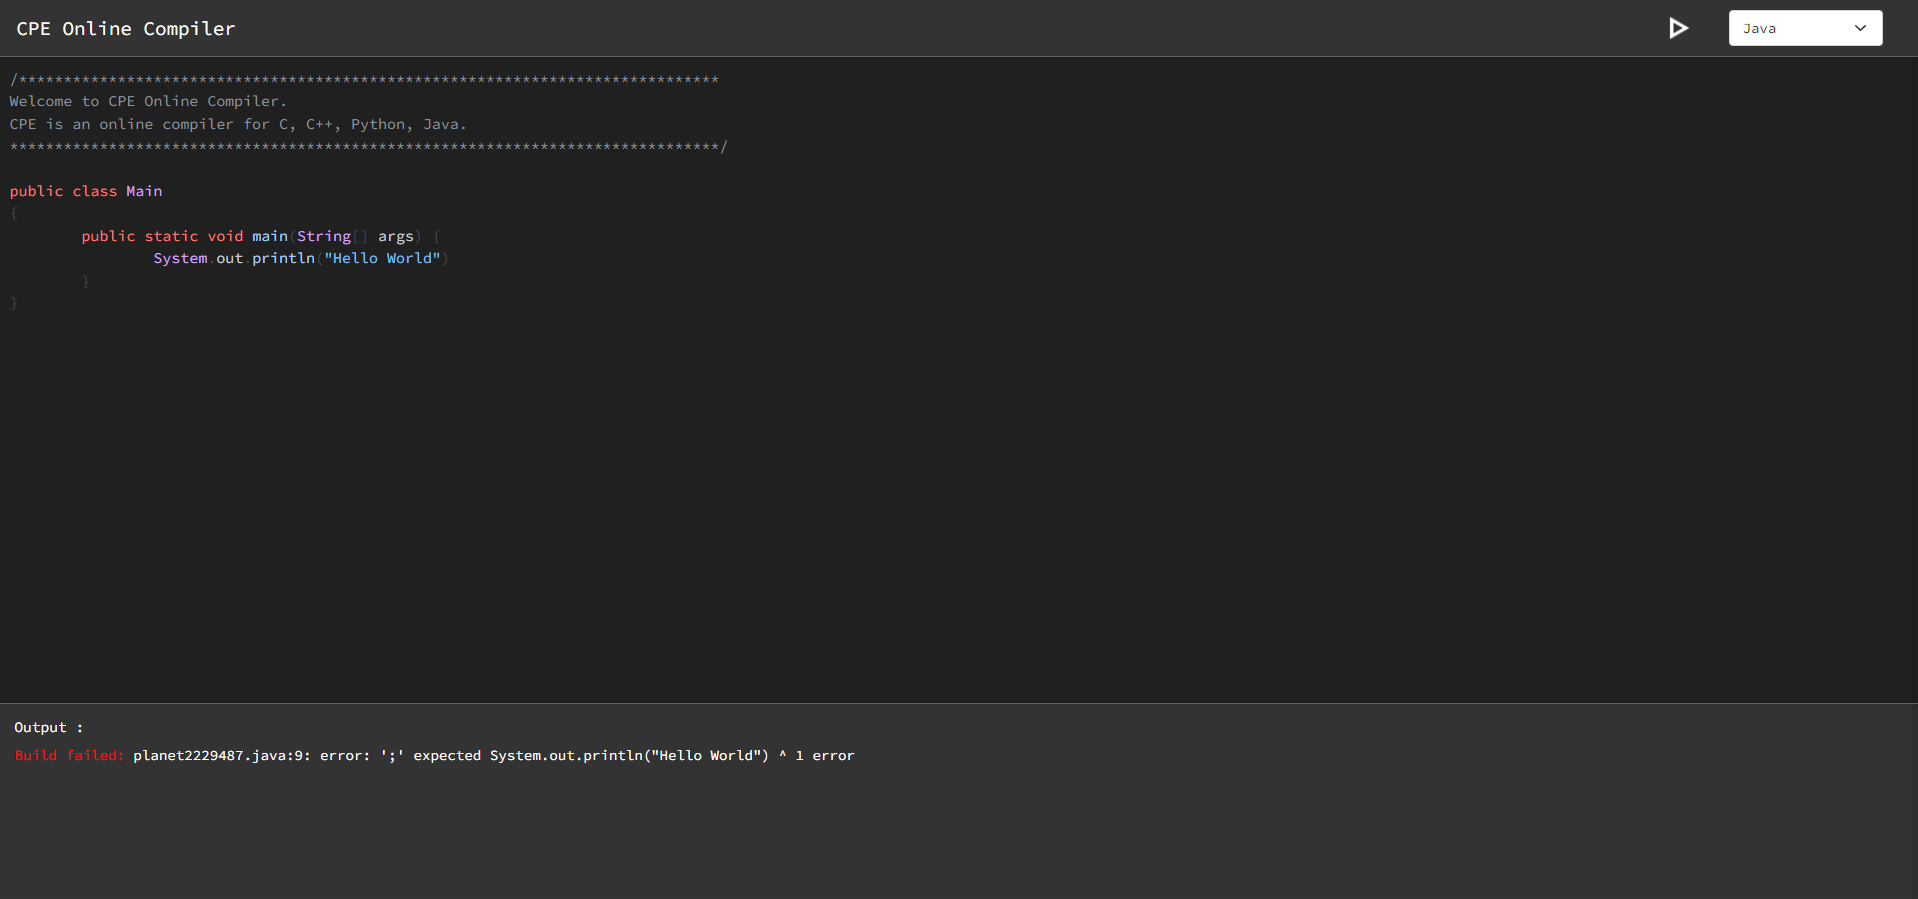
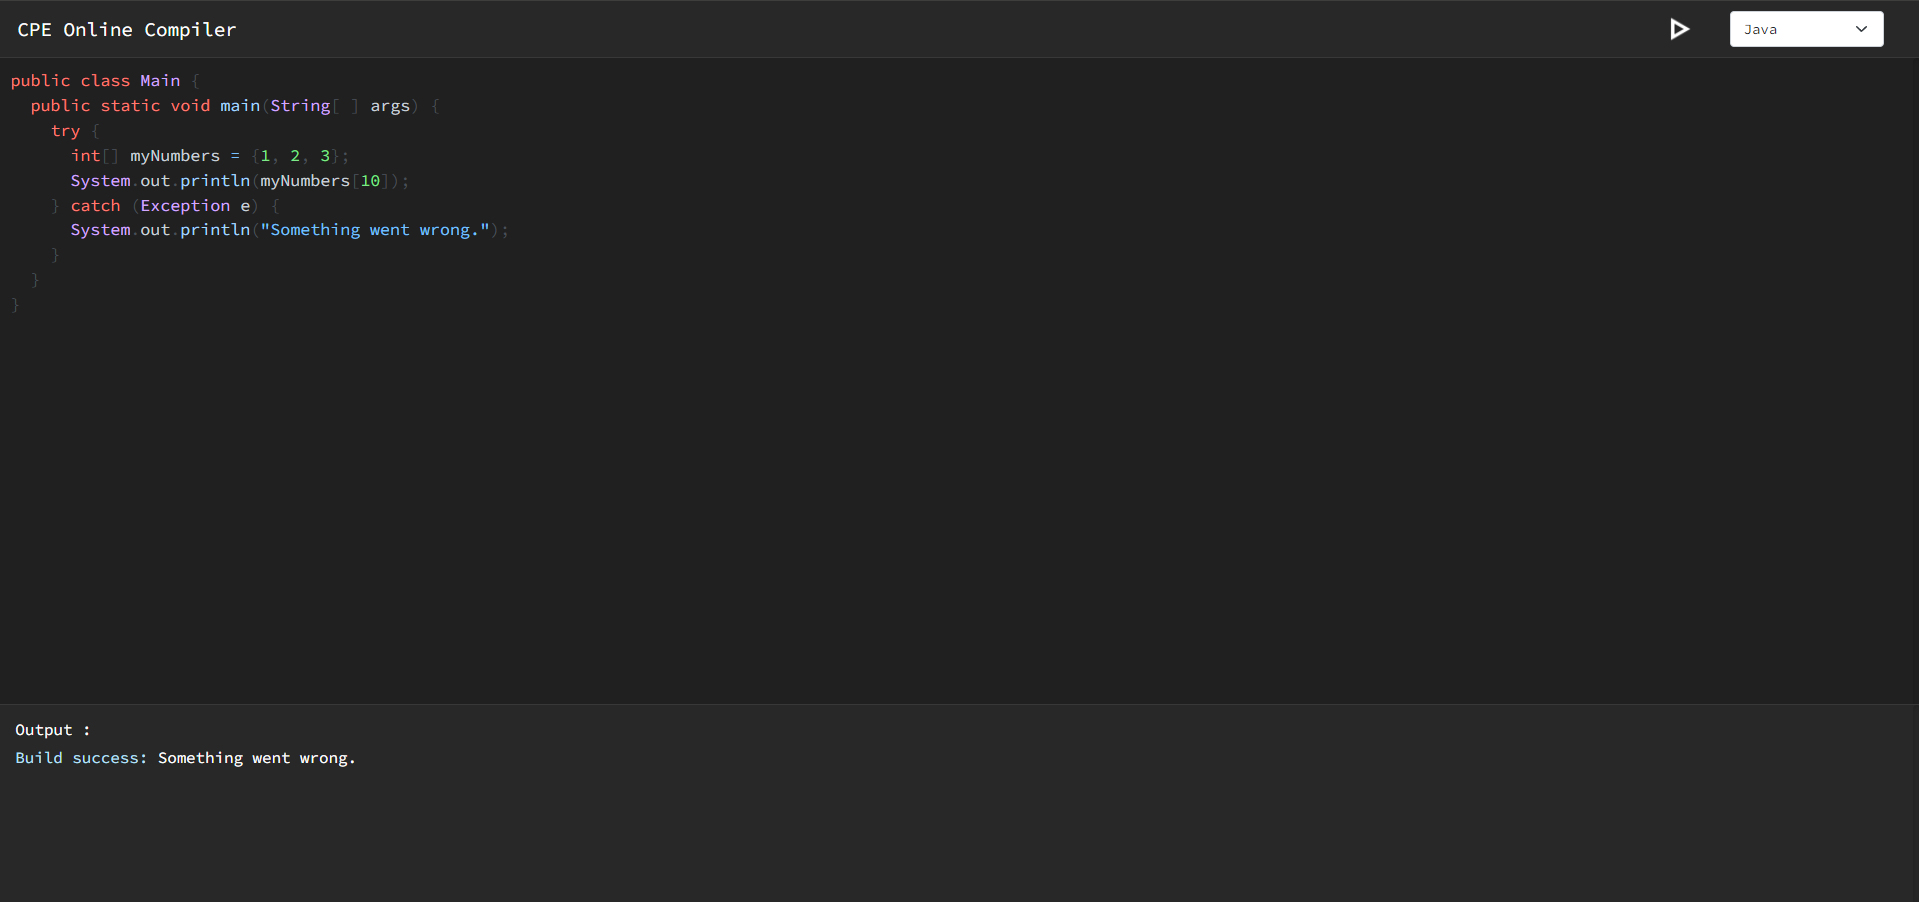
syntax highlighting fix

diff --git a/client/src/Output.js b/client/src/Output.js
@@ -2,8 +2,8 @@ import React from 'react'
 
 export const Output = (props) => {
     return (
-        <div className="output" style={{ display: 'flex', flexDirection: 'column', textAlign: 'left', paddingLeft: '0.8vw', backgroundColor: '#333333', marginTop: '-8px', paddingTop: '40px', overflowY: 'scroll',position:'relative' ,height:'22.5vh',fontSize:'0.85em',borderTop:'1px solid #616161'}}>
-            <h6 style={{ color: 'white',zIndex:'99',position:'absolute',top:'15px',fontSize:'14px'}}>Output :</h6>
+        <div className="output" style={{ display: 'flex', flexDirection: 'column', textAlign: 'left', paddingLeft: '0.8vw', backgroundColor: 'rgb(40,40,40)', marginTop: '-8px', paddingTop: '40px', overflowY: 'scroll',position:'relative' ,height:'22.5vh',fontSize:'0.95em',borderTop:'0.1px solid rgb(56 56 56)'}}>
+            <h6 style={{ color: 'white',zIndex:'99',position:'absolute',top:'15px',fontSize:'15.25px'}}>Output :</h6>
             <div className="output" style={{ color: 'white' }}>
                 {(props.op[1]) ?
                     <span style={{ color: '#BBE1FA' }}> Build success: </span> : <></>}

diff --git a/client/src/Navbar.js b/client/src/Navbar.js
@@ -5,7 +5,7 @@ export const Navbar = (props) => {
         props.selectlang(e.target.value)
     }
     return (
-        <nav className="navbar navbar-light" style={{ backgroundColor: '#333333' ,borderBottom:'1px solid #616161'}}>
+        <nav className="navbar navbar-light" style={{ backgroundColor: 'rgb(40,40,40)' ,borderBottom:'1px solid rgb(56 56 56)'}}>
             <div className="container-fluid">
                 <a href="/" className="navbar-brand" style={{ color: 'white' ,fontSize:'18.5px',paddingLeft:'0.25vw'}}>CPE Online Compiler</a>
                 <div style={{display:'flex',flexDirection:'row'}}>

diff --git a/client/src/TextEditor.jsx b/client/src/TextEditor.jsx
@@ -13,7 +13,7 @@ export const TextEditor = (props) => {
                 value={props.c}
                 language={props.lang}
                 onChange={(e) => handleCode(e)}
-                style={{ backgroundColor: '#202020', width: '100%', fontSize: '0.9em', }}
+                style={{ backgroundColor: '#202020', width: '100%', fontSize: '1em'}}
             />
         </div>
 

diff --git a/backend/codes/badly2236223.java b/backend/codes/badly2236223.java
@@ -1,0 +1,11 @@
+/******************************************************************************
+Welcome to CPE Online Compiler.
+CPE is an online compiler for C, C++, Python, Java.
+*******************************************************************************/
+
+public class badly2236223
+{
+	public static void main(String[] args) {
+		System.out.println("Hello World")
+	}
+}

diff --git a/backend/codes/symbol2219496.cpp b/backend/codes/symbol2219496.cpp
@@ -1,0 +1,15 @@
+/******************************************************************************
+Welcome to CPE Online Compiler.
+CPE is an online compiler for C, C++, Python, Java.
+*******************************************************************************/
+
+#include <iostream>
+
+using namespace std;
+
+int main()
+{
+    cout<<"Hello World";
+
+    return 0;
+}

diff --git a/backend/codes/what2227961.cpp b/backend/codes/what2227961.cpp
@@ -1,0 +1,15 @@
+/******************************************************************************
+Welcome to CPE Online Compiler.
+CPE is an online compiler for C, C++, Python, Java.
+*******************************************************************************/
+
+#include <iostream>
+
+using namespace std;
+
+int main()
+{
+    cout<<"Hello World";
+
+    return 0;
+}

diff --git a/backend/codes/cover2254262.c b/backend/codes/cover2254262.c
@@ -1,0 +1,13 @@
+/******************************************************************************
+Welcome to CPE Online Compiler.
+CPE is an online compiler for C, C++, Python, Java.
+*******************************************************************************/
+
+#include <stdio.h>
+
+int main()
+{
+    printf("Hello World");
+    printf("%d",5*2);
+    return 0;
+}

diff --git a/backend/codes/saw223466.c b/backend/codes/saw223466.c
@@ -1,0 +1,13 @@
+/******************************************************************************
+Welcome to CPE Online Compiler.
+CPE is an online compiler for C, C++, Python, Java.
+*******************************************************************************/
+
+#include <stdio.h>
+
+int main()
+{
+    printf("Hello World");
+
+    return 0;
+}

diff --git a/backend/codes/caught2215457.java b/backend/codes/caught2215457.java
@@ -1,0 +1,11 @@
+public class caught2215457 {
+  public static void main(String[ ] args) {
+    try {
+      int[] myNumbers = {1, 2, 3};
+      System.out.println(myNumbers[10]);
+    } catch (Exception e) {
+      System.out.println("Something went wrong.");
+    }
+  }
+}
+}

diff --git a/backend/codes/been2242351.py b/backend/codes/been2242351.py
@@ -1,0 +1,5 @@
+'''
+Welcome to CPE Online Compiler.
+CPE is an online compiler for C, C++, Python, Java.
+'''
+print ('Hello World')

diff --git a/backend/codes/meal2239359.py b/backend/codes/meal2239359.py
@@ -1,0 +1,5 @@
+'''
+Welcome to CPE Online Compiler.
+CPE is an online compiler for C, C++, Python, Java.
+'''
+print ('Hello World')
